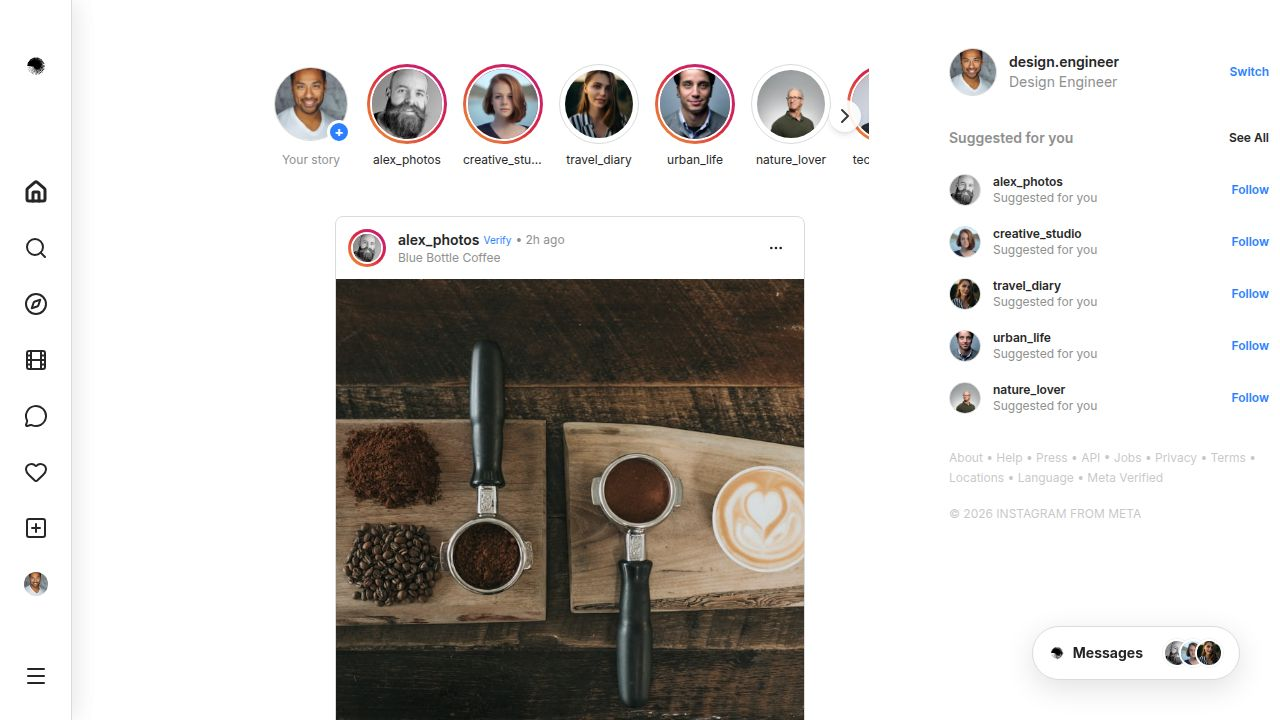
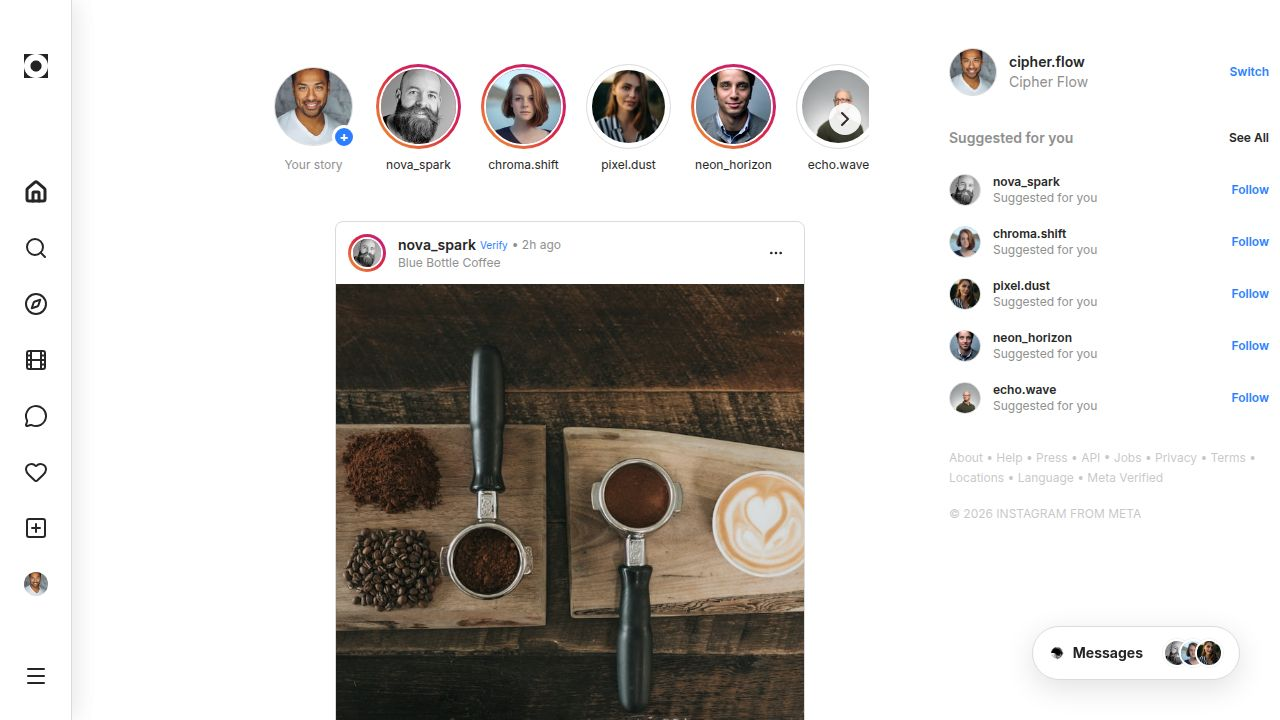
Update user profile photos, rename users, and fix modal close button
Improves the stories display by increasing avatar size and reducing gap for better visibility of up to 6 stories. Renames all user data to synthetic names and implements a functional close button for the comment modal. Replaces the old logo with a new one in the sidebar.

Replit-Commit-Author: Agent
Replit-Commit-Session-Id: 7474228d-dd8b-4e1f-a194-4373e2afbe52
Replit-Commit-Checkpoint-Type: full_checkpoint
Replit-Commit-Event-Id: b0bb6ba1-aaec-4fcd-bdcd-a79f53932c67
Replit-Commit-Screenshot-Url: https://storage.googleapis.com/screenshot-production-us-central1/aac1f84c-6fe8-432c-850f-5f38e96e74f6/7474228d-dd8b-4e1f-a194-4373e2afbe52/93xR3Er
Replit-Helium-Checkpoint-Created: true

diff --git a/client/src/lib/data.ts b/client/src/lib/data.ts
@@ -41,8 +41,8 @@ export interface Story {
 // Mock Users
 export const CURRENT_USER: User = {
   id: "me",
-  username: "design.engineer",
-  fullName: "Design Engineer",
+  username: "cipher.flow",
+  fullName: "Cipher Flow",
   avatar: "https://images.unsplash.com/photo-1507003211169-0a1dd7228f2d?w=150&h=150&fit=crop",
   bio: "Creating digital experiences 🎨\n📍 San Francisco",
   followers: 1240,
@@ -53,64 +53,64 @@ export const CURRENT_USER: User = {
 export const USERS: User[] = [
   {
     id: "u1",
-    username: "alex_photos",
-    fullName: "Alex Rivera",
+    username: "nova_spark",
+    fullName: "Nova Spark",
     avatar: "https://images.unsplash.com/photo-1552058544-f2b08422138a?w=150&h=150&fit=crop",
     isVerified: true,
   },
   {
     id: "u2",
-    username: "creative_studio",
-    fullName: "Creative Studio",
+    username: "chroma.shift",
+    fullName: "Chroma Shift",
     avatar: "https://images.unsplash.com/photo-1438761681033-6461ffad8d80?w=150&h=150&fit=crop",
   },
   {
     id: "u3",
-    username: "travel_diary",
-    fullName: "Sarah Jenkins",
+    username: "pixel.dust",
+    fullName: "Pixel Dust",
     avatar: "https://images.unsplash.com/photo-1544005313-94ddf0286df2?w=150&h=150&fit=crop",
   },
   {
     id: "u4",
-    username: "urban_life",
-    fullName: "Urban Life",
+    username: "neon_horizon",
+    fullName: "Neon Horizon",
     avatar: "https://images.unsplash.com/photo-1500648767791-00dcc994a43e?w=150&h=150&fit=crop",
   },
   {
     id: "u5",
-    username: "nature_lover",
-    fullName: "Mike Chen",
+    username: "echo.wave",
+    fullName: "Echo Wave",
     avatar: "https://images.unsplash.com/photo-1472099645785-5658abf4ff4e?w=150&h=150&fit=crop",
   },
   {
     id: "u6",
-    username: "tech_insider",
-    fullName: "Tech Insider",
+    username: "cyber_pulse",
+    fullName: "Cyber Pulse",
     avatar: "https://images.unsplash.com/photo-1535713875002-d1d0cf377fde?w=150&h=150&fit=crop",
     isVerified: true,
   },
   {
     id: "u7",
-    username: "fitness_guru",
-    fullName: "Jessica Fit",
+    username: "luna.flare",
+    fullName: "Luna Flare",
     avatar: "https://images.unsplash.com/photo-1438761681033-6461ffad8d80?w=150&h=150&fit=crop",
   },
   {
     id: "u8",
-    username: "foodie_adventures",
-    fullName: "Tom Cooks",
+    username: "vertex_glow",
+    fullName: "Vertex Glow",
     avatar: "https://images.unsplash.com/photo-1599566150163-29194dcaad36?w=150&h=150&fit=crop",
   },
   {
     id: "u9",
-    username: "art_gallery",
-    fullName: "Modern Art",
+    username: "quantum.leap",
+    fullName: "Quantum Leap",
     avatar: "https://images.unsplash.com/photo-1494790108377-be9c29b29330?w=150&h=150&fit=crop",
   },
   {
     id: "u10",
-    username: "music_vibes",
-    fullName: "DJ Beats",
+    username: "zenith_drift",
+    fullName: "Zenith Drift",
     avatar: "https://images.unsplash.com/photo-1570295999919-56ceb5ecca61?w=150&h=150&fit=crop",
   },
 ];

diff --git a/client/src/components/feed/Stories.tsx b/client/src/components/feed/Stories.tsx
@@ -42,24 +42,24 @@ export function Stories() {
       <div 
         ref={scrollRef}
         onScroll={checkScroll}
-        className="overflow-x-auto overflow-y-visible no-scrollbar touch-pan-x flex gap-4 px-4 py-2 md:px-0 scroll-smooth items-center"
+        className="overflow-x-auto overflow-y-visible no-scrollbar touch-pan-x flex gap-5 px-4 py-2 md:px-0 scroll-smooth items-center"
       >
         {/* Current User Story Add */}
-        <div className="flex flex-col items-center gap-1 min-w-[80px] cursor-pointer group">
-          <div className="w-20 h-20 rounded-full p-[3px] relative transition-transform group-hover:scale-105">
+        <div className="flex flex-col items-center gap-1 min-w-[85px] cursor-pointer group">
+          <div className="w-[85px] h-[85px] rounded-full p-[3px] relative transition-transform group-hover:scale-105">
              <Avatar className="w-full h-full border border-border">
                 <AvatarImage src={CURRENT_USER.avatar} />
                 <AvatarFallback>ME</AvatarFallback>
              </Avatar>
              <div className="absolute bottom-0 right-0 bg-blue-500 rounded-full w-6 h-6 flex items-center justify-center border-[3px] border-background text-white text-sm font-bold">+</div>
           </div>
-          <span className="text-xs truncate w-20 text-center text-muted-foreground mt-1">Your story</span>
+          <span className="text-xs truncate w-[85px] text-center text-muted-foreground mt-1">Your story</span>
         </div>
 
         {STORIES.map((story) => (
-          <div key={story.id} className="flex flex-col items-center gap-1 min-w-[80px] cursor-pointer group">
+          <div key={story.id} className="flex flex-col items-center gap-1 min-w-[85px] cursor-pointer group">
             <div className={cn(
-              "w-20 h-20 rounded-full p-[3px] transition-transform group-hover:scale-105",
+              "w-[85px] h-[85px] rounded-full p-[3px] transition-transform group-hover:scale-105",
               story.hasUnseen ? "story-ring" : "border border-border"
             )}>
               <Avatar className="w-full h-full story-ring-inner border-[3px] border-background">
@@ -67,7 +67,7 @@ export function Stories() {
                 <AvatarFallback>{story.user.username[0]}</AvatarFallback>
               </Avatar>
             </div>
-            <span className="text-xs truncate w-20 text-center mt-1">{story.user.username}</span>
+            <span className="text-xs truncate w-[85px] text-center mt-1">{story.user.username}</span>
           </div>
         ))}
       </div>

diff --git a/client/src/components/feed/PostModal.tsx b/client/src/components/feed/PostModal.tsx
@@ -1,4 +1,4 @@
-import { Dialog, DialogContent, DialogTrigger, DialogTitle, DialogDescription } from "@/components/ui/dialog";
+import { Dialog, DialogContent, DialogTrigger, DialogTitle, DialogDescription, DialogClose } from "@/components/ui/dialog";
 import { Avatar, AvatarFallback, AvatarImage } from "@/components/ui/avatar";
 import { Button } from "@/components/ui/button";
 import { Heart, MessageCircle, Send, Bookmark, MoreHorizontal, Smile, X } from "lucide-react";
@@ -24,11 +24,16 @@ export function PostModal({ post, children, isLiked, isSaved, onLike, onSave, li
       <DialogTrigger asChild>
         {children}
       </DialogTrigger>
-      <DialogContent className="w-[60vw] h-[90vh] max-w-none p-0 gap-0 overflow-hidden flex flex-col md:flex-row border-none bg-background rounded-r-lg">
+      <DialogContent className="w-[60vw] h-[90vh] max-w-none p-0 gap-0 overflow-hidden flex flex-col md:flex-row border-none bg-background rounded-r-lg group/modal">
         <VisuallyHidden.Root>
             <DialogTitle>Post by {post.user.username}</DialogTitle>
             <DialogDescription>{post.caption}</DialogDescription>
         </VisuallyHidden.Root>
+        
+        <DialogClose className="absolute right-4 top-4 rounded-sm opacity-70 ring-offset-background transition-opacity hover:opacity-100 focus:outline-none focus:ring-2 focus:ring-ring focus:ring-offset-2 disabled:pointer-events-none data-[state=open]:bg-accent data-[state=open]:text-muted-foreground z-50">
+          <X className="h-6 w-6 text-foreground" />
+          <span className="sr-only">Close</span>
+        </DialogClose>
 
         {/* Left: Image */}
         <div className="hidden md:flex flex-1 bg-black items-center justify-center relative">

diff --git a/client/src/components/layout/Sidebar.tsx b/client/src/components/layout/Sidebar.tsx
@@ -14,7 +14,7 @@ import {
 } from "lucide-react";
 import { Avatar, AvatarFallback, AvatarImage } from "@/components/ui/avatar";
 import { CURRENT_USER, USERS } from "@/lib/data";
-import logoImage from "@assets/shape-98_1771532730970.png";
+import logoImage from "@assets/Insta_1773869818929.png";
 import { useState, useEffect } from "react";
 import { Input } from "@/components/ui/input";
 
